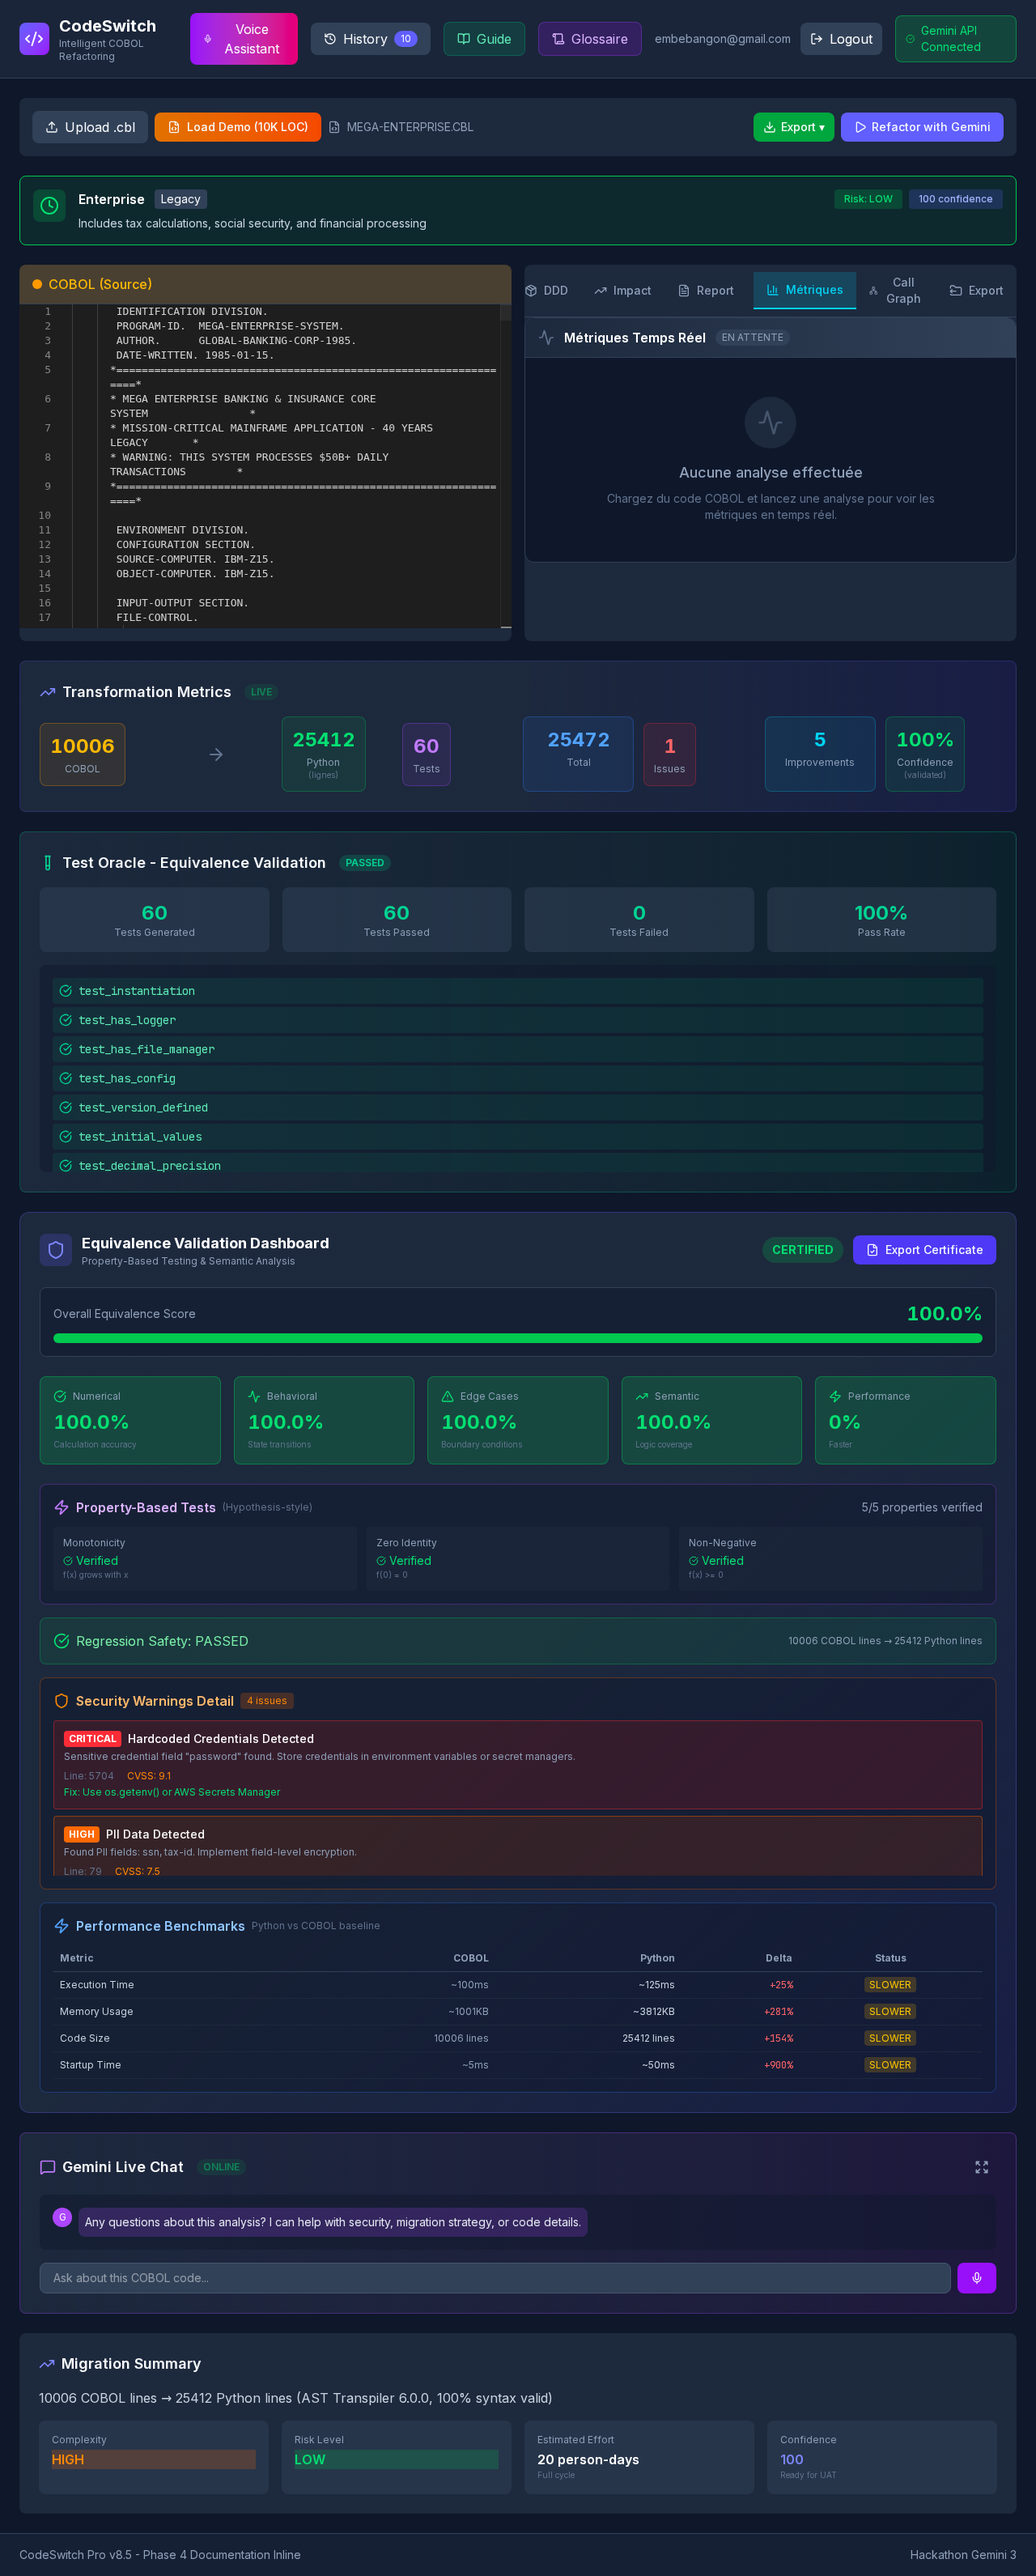
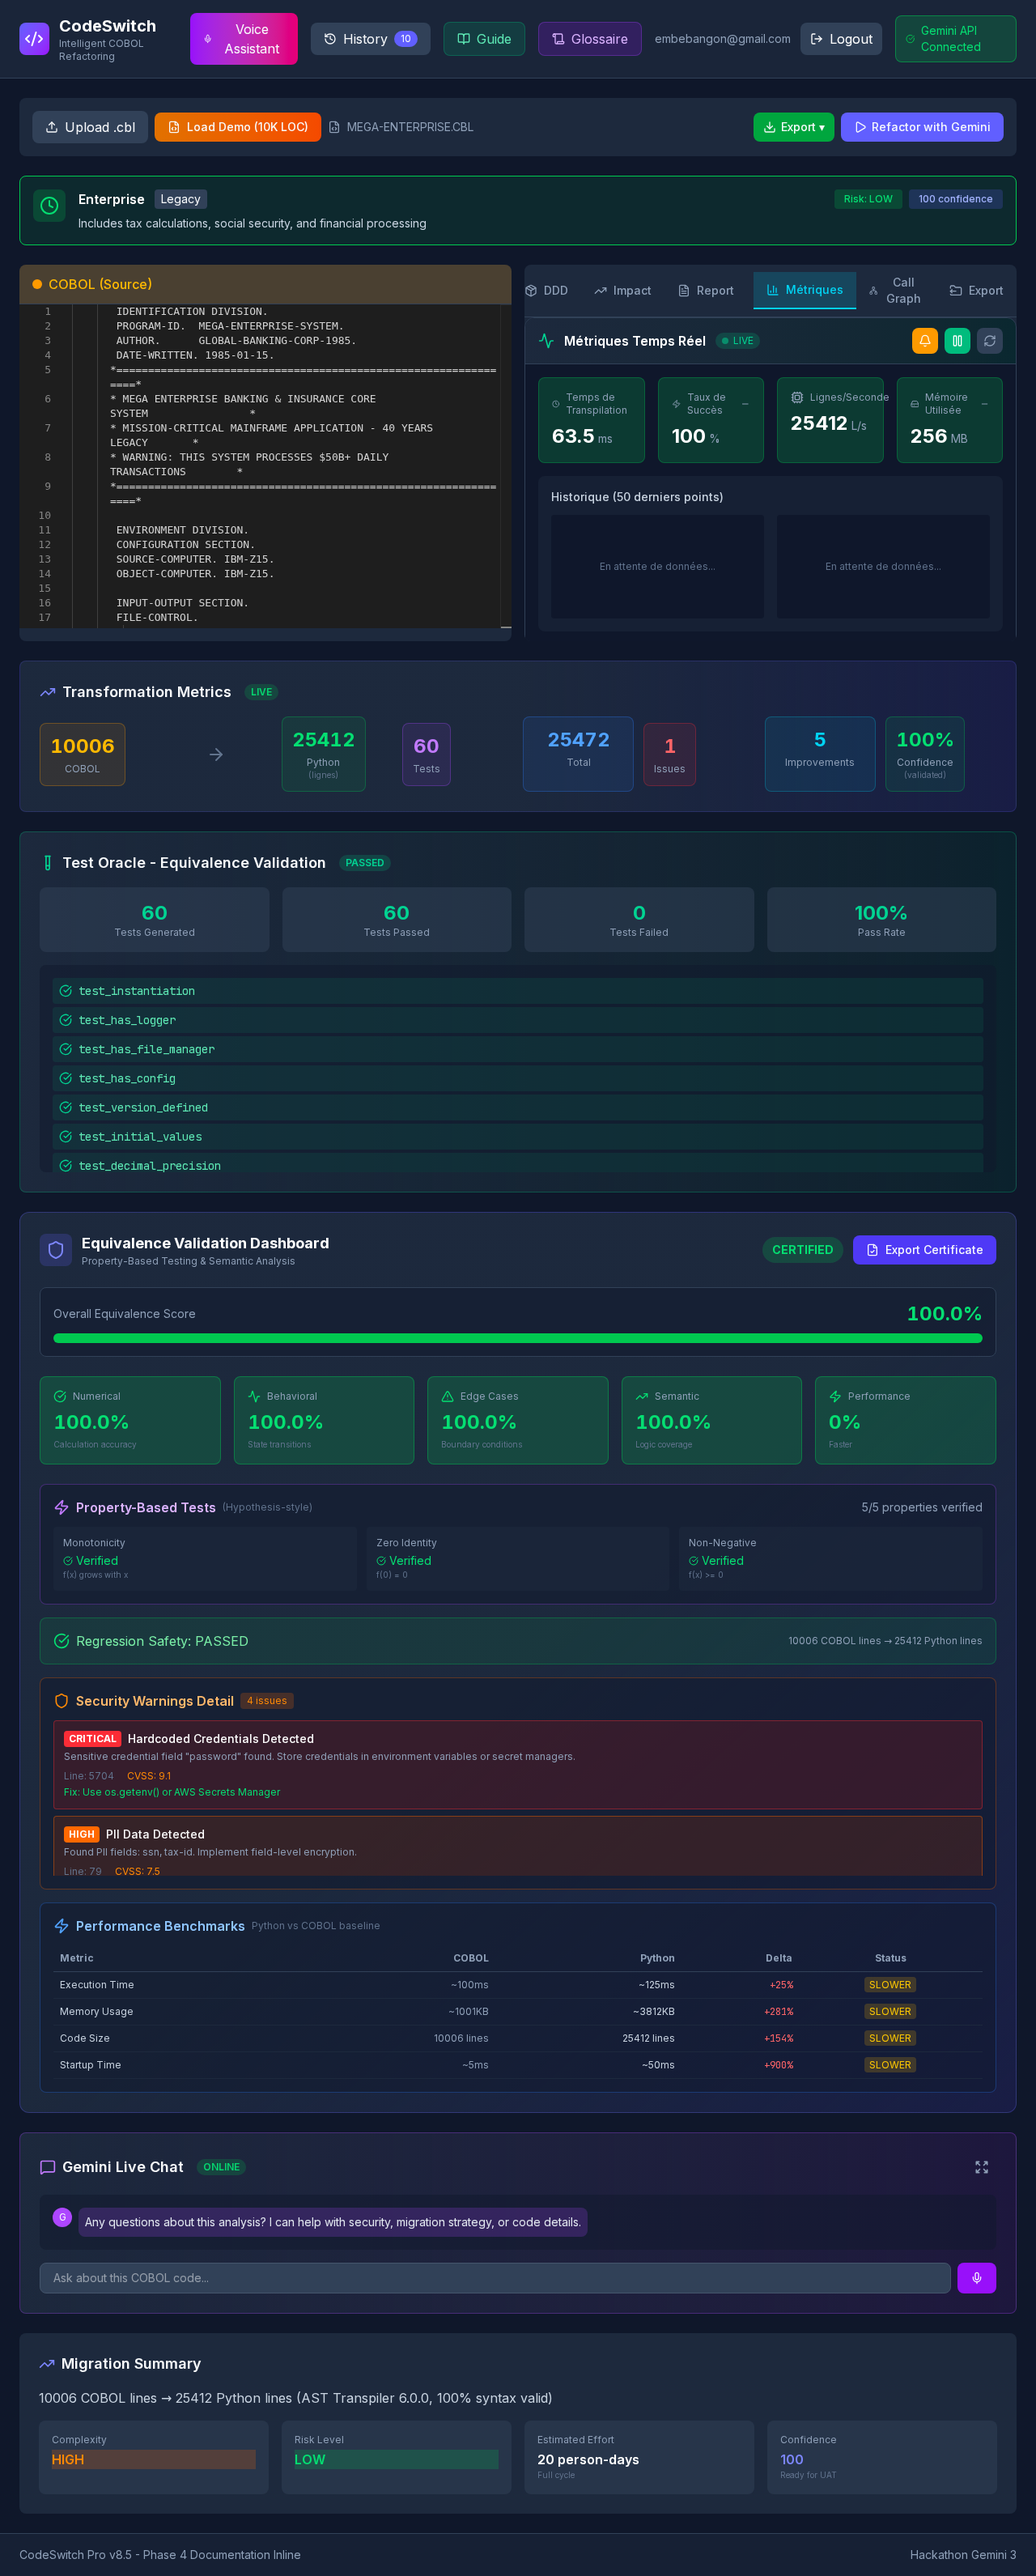
Message 355973258866840 - 1768460833

Changed region(s): [[0.5, 0.1245, 1.0, 0.1867]]

diff --git a/complete_test.js b/complete_test.js
@@ -1,0 +1,94 @@
+const { chromium } = require('playwright');
+
+(async () => {
+  const browser = await chromium.launch();
+  const page = await browser.newPage();
+  const results = [];
+  
+  console.log('=== TEST COMPLET TOUS ONGLETS ===\n');
+  
+  // Connexion
+  console.log('1⃣ CONNEXION...');
+  await page.goto('https://cobol-ast-service.vercel.app/login');
+  await page.waitForTimeout(3000);
+  await page.fill('input[type="email"]', 'embebangon@gmail.com');
+  await page.fill('input[type="password"]', 'EManu1231975@@');
+  await page.click('button:has-text("Sign In")');
+  await page.waitForTimeout(5000);
+  console.log('✅ Connecté\n');
+  
+  // Load demo + analyse
+  console.log('2⃣ ANALYSE...');
+  await page.click('button:has-text("Load Demo")');
+  await page.waitForTimeout(2000);
+  await page.click('button:has-text("Refactor with Gemini")');
+  console.log('   En cours (40s)...');
+  await page.waitForTimeout(40000);
+  console.log('✅ Terminée\n');
+  
+  // Test chaque onglet
+  const tabs = [
+    'Python', 'Tests', 'Config', 'Diff', 'Architecture', 
+    'Modules', 'DDD', 'Impact', 'Report', 'Métriques', 'Call Graph', 'Export'
+  ];
+  
+  console.log('3⃣ TEST DES ONGLETS:\n');
+  
+  for (const tab of tabs) {
+    process.stdout.write(`   ${tab.padEnd(15)}`);
+    
+    try {
+      const tabBtn = page.locator(`button:has-text("${tab}")`).first();
+      await tabBtn.click();
+      await page.waitForTimeout(2000);
+      
+      const content = await page.textContent('body');
+      const filename = tab.toLowerCase().replace(/\s+/g, '_');
+      await page.screenshot({ path: `/workspace/screenshots/final_${filename}.png`, fullPage: true });
+      
+      // Vérifications spécifiques
+      let status = '✅';
+      let note = '';
+      
+      if (tab === 'Métriques') {
+        if (content.includes('EN ATTENTE')) {
+          status = '⚠';
+          note = '(EN ATTENTE)';
+        } else if (content.includes('LIVE')) {
+          note = '(LIVE actif)';
+        }
+      } else if (tab === 'Python') {
+        if (!content.includes('def ') && !content.includes('class ') && !content.includes('Python')) {
+          status = '⚠';
+          note = '(pas de code visible)';
+        }
+      } else if (tab === 'Tests') {
+        if (content.includes('passed') || content.includes('test')) {
+          note = '(tests visibles)';
+        }
+      } else if (tab === 'Export') {
+        if (content.includes('Download') || content.includes('Export') || content.includes('ZIP')) {
+          note = '(options export OK)';
+        }
+      }
+      
+      console.log(`${status} ${note}`);
+      results.push({ tab, status, note });
+      
+    } catch (err) {
+      console.log(`❌ Erreur: ${err.message.substring(0, 30)}`);
+      results.push({ tab, status: '❌', note: 'erreur' });
+    }
+  }
+  
+  // Résumé
+  console.log('\n=== RÉSUMÉ ===');
+  const ok = results.filter(r => r.status === '✅').length;
+  const warn = results.filter(r => r.status === '⚠').length;
+  const fail = results.filter(r => r.status === '❌').length;
+  
+  console.log(`✅ OK: ${ok} | ⚠ Attention: ${warn} | ❌ Erreurs: ${fail}`);
+  console.log('\n📸 Screenshots dans /workspace/screenshots/final_*.png');
+  
+  await browser.close();
+})();

diff --git a/final_test.js b/final_test.js
@@ -1,0 +1,37 @@
+const { chromium } = require('playwright');
+
+(async () => {
+  const browser = await chromium.launch();
+  const page = await browser.newPage();
+  
+  console.log('=== TEST FINAL MÉTRIQUES ===\n');
+  
+  await page.goto('https://cobol-ast-service.vercel.app/login');
+  await page.waitForTimeout(3000);
+  await page.fill('input[type="email"]', 'embebangon@gmail.com');
+  await page.fill('input[type="password"]', 'EManu1231975@@');
+  await page.click('button:has-text("Sign In")');
+  await page.waitForTimeout(5000);
+  console.log('✅ Connecté');
+  
+  await page.click('button:has-text("Load Demo")');
+  await page.waitForTimeout(2000);
+  await page.click('button:has-text("Refactor with Gemini")');
+  console.log('⏳ Analyse (40s)...');
+  await page.waitForTimeout(40000);
+  console.log('✅ Analyse OK');
+  
+  // Aller sur Métriques
+  await page.click('button:has-text("Métriques")');
+  await page.waitForTimeout(3000);
+  await page.screenshot({ path: '/workspace/screenshots/metriques_v2.png', fullPage: true });
+  
+  const content = await page.textContent('body');
+  console.log('\n📊 RÉSULTATS:');
+  console.log(`   EN ATTENTE visible: ${content.includes('EN ATTENTE') ? '❌ OUI (problème)' : '✅ NON (OK)'}`);
+  console.log(`   LIVE visible: ${content.includes('LIVE') ? '✅ OUI' : '❌ NON'}`);
+  console.log(`   Temps de Transpilation: ${content.includes('Temps de Transpilation') ? '✅' : '❌'}`);
+  console.log(`   Taux de Succès: ${content.includes('Taux de Succès') ? '✅' : '❌'}`);
+  
+  await browser.close();
+})();
